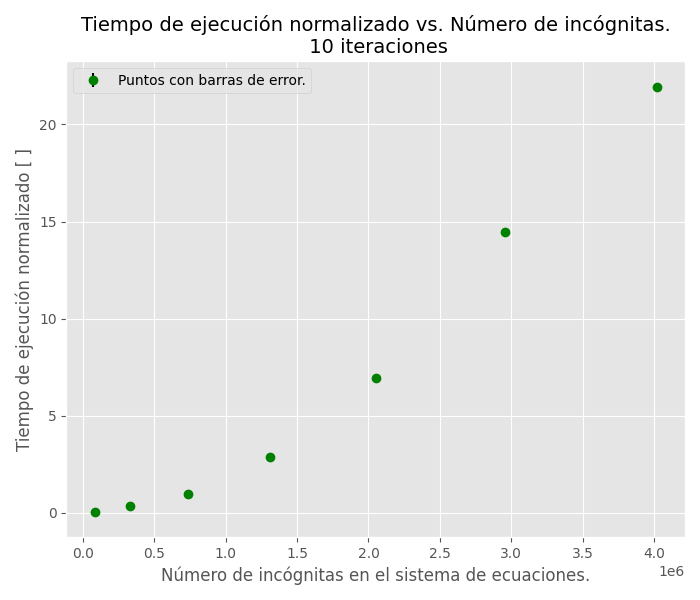
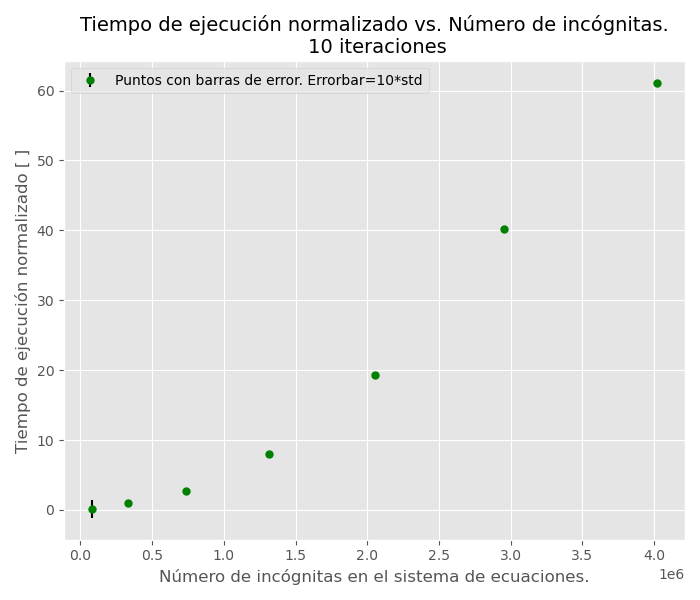
plotEscalamiento

diff --git a/mfem-4.7/examples/plot.py b/mfem-4.7/examples/plot.py
@@ -15,24 +15,25 @@ timeDesv = np.zeros(cantidadArchivos)
 size = np.zeros(cantidadArchivos)
 
 
+
 for i, archivo in enumerate(archivos):
 
     timeArray, sizeArray = np.genfromtxt(f'./output/{archivo}',delimiter=' ', usecols=(0,1),unpack=True)
 
     meanTime = np.mean(timeArray)
+    if (i==0):
+        time0 = meanTime
 
-    time[i] = meanTime
+    time[i] = meanTime/time0
+    timeDesv[i] = np.std(timeArray/meanTime)
 
     size[i] = sizeArray[0]
 
-
-
 #Se normaliza el promedio y desviación estándar dividiendo por el tiempo y desviación estándar que tomó para el índice 0.
-time = time/time[0]
-timeDesv  = np.std(timeArray)
 
 
-errorbar= 3.0*timeDesv
+print(timeDesv)
+errorbar= 10*timeDesv
 
 plt.style.use('ggplot')
 
@@ -40,7 +41,7 @@ fig, axes = plt.subplots(1, 1, figsize=(7, 6))
 
 
 #Se grafica el tiempo de ejecución normalizado vs. tamaño de la matriz.
-axes.errorbar(size, time, yerr= errorbar, fmt='go', ecolor='black', markersize=6, label="Puntos con barras de error.")
+axes.errorbar(size, time, yerr= errorbar, fmt='go', ecolor='black', markersize=2, label="Puntos con barras de error. Errorbar=10*std")
 
 #Se ajustan demás detalles del gráfico.
 axes.set_xlabel('Número de incógnitas en el sistema de ecuaciones.', fontsize=12)
@@ -53,5 +54,5 @@ axes.ticklabel_format(style='sci', axis='x', scilimits=(0,0))
 
 plt.tight_layout()
 
-plt.savefig(f'EscalamientoFuerte10Iter.png')
+plt.savefig(f'EscalamientoFuerteSala29_np6.png')
 #plt.show()
